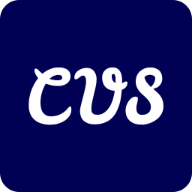
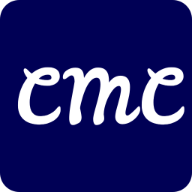
[REFACTOR][DOC] Translate the README to English
Some small adjustments on the descriptions
Add a new logo

Fix the issue #7

Changed region(s): [[0.0938, 0.3438, 0.9688, 0.6562]]

diff --git a/README.md b/README.md
@@ -3,58 +3,113 @@
 Commit Messages Convention (CMC)
 ===
 
-Commit Messages Convention (CMC) is designed to support GIT or SVN projects for better organization of the files that are versioned in the repository, we must insert comments preceded by the actions that were performed on the versioned files. This way the source code versioning is more flexible and cohesive, making it easier to identify what was done.
+Commit Messages Convention (CMC) is designed to help **GIT** or **SVN** projects to a better organization of commits in the repository.
+It defines that commenting must be preceded by the types of actions that were performed on versioned files.
+This makes source code versioning more flexible and cohesive, making it easier to identify what has been done.
+This convention follows [SemVer] (http://semver.org/), describing features, fixes, and modifications that break compatibility in commit messages. 
+
+## Specification
+The keywords "MUST", "MUST NOT", "REQUIRED", "SHALL", "SHALL NOT", "SHOULD", "SHOULD NOT", "RECOMMENDED", "MAY" and "OPTIONAL" in this document are to be interpreted as described in [RFC 2119] (http://tools.ietf.org/html/rfc2119).
 
 ## How to use
-By default, each action should be enclosed in brackets preceded by what was performed clearly and objectively during code versioning.
+By default, each type MUST be capitalized, in brackets, preceding what was done clearly and objectively during code versioning.
 
-## Actions
-
-The options below represent options that can be used at the beginning of each commit.
-
-|Actions    |Description|
-|:-:	      |:-:	    |
-|[ADD]      | Used for when files are added to the project|
-|[REMOVE]   | Used to signal file removal|
-|[MOVE]     | Used when a file is moved from one directory to another.|
-|[UPDATE]   | Used to enhance an existing file|
-|[REFACTOR] | Used for source code refactoring|
-|[PATCH]    | Used to represent routines for interim fixes.|
-|[FIX]      | Used to represent Error / Fault Correction, identified by the manager or team working on the source code|
-|[MERGE]    | Used when file merge is performed|
-|[RENAME]   | Used when a file is renamed.|
-
-## Usage
-
-### Default Message
-```
-[ADD] Definition of xyz Files
-```
-
-### Title and Description
-```
-[UPDATE] Payment using cards
-
-Creation of functionality that allows you to make payments using the XPTO flag credit card.
-```
-
-### Logging messages to modules
-
-If **modules** and **functionality** are used, use the pattern `[action] module / functionality:` preceded by a brief description.
+The commit message MUST be structured as follows:
 
 ```
-[FIX] Module/Feature: Description
+[TYPE required] <description|header required>
+--blank line--
+<optional body>
+--blank line--
+<optional footer>
+```
+##### The message:
+- MUST start with a [TYPE]
+- [TYPE] MUST be uppercase, enclosed in brackets, followed by a space
+- MUST contain a <description> after [TYPE]
+- MAY contain <body> and/or <footer>
+- MUST contain a --blank line-- after <description> if you have <body>
+- MUST contain a --blank line-- after <body> if it has <footer>
 
-Describing what was done in this fix.
+### Types
+The types below represent options that can be used at the beginning of each commit.
+
+| Type      | Description |
+|:-:        | :-: |
+|[FEAT]     | When a new feature was developed |
+|[FIX]      | When a feature/bug has been fixed |
+|[UPDATE]   | When static files have been renamed, removed, moved from one directory to another, added or replaced |
+|[REFACTOR] | When a code change that doesn't fix a bug nor add a feature |
+|[DOCS]     | Documentation changes only |
+
+### Special Types
+Is RECOMMENDED that special types to use in conjunction with previous types, however, they MAY be used anywhere in the message.
+
+| Type                              | Description |
+|:-:                                | :-: |
+|[WIP]                              | When a development is still in progress |
+|[BREAKING] or [BREAKING CHANGE]    | When commit includes a modification that breaks compatibility. MAY be used anywhere in commit (<description>, <body> or <footer>) |
+
+
+#### Exemplos:
+```
+[FEAT][WIP] Introduces a new payment method
+```
+```
+[FIX][BREAKING] Replaces PayPal Gateway with PayPal
 ```
 
-## How NOT to use
+### Description
+For the commit <description> and <body> message, use the "Commit Message Guide" pattern (https://github.com/RomuloOliveira/commit-messages-guide/blob/master/README_en). md) @RomuloOliveira, which basically consists of:
+- **Use imperative**: The message from commit tells you what it does, not what it was **done**.
+- **First letter in upper case**: because this is how you start a sentence in any text.
+- **Try to communicate what commit does without having to look at the commit content.**
 
-It is not good practice to group multiple actions in the same commit. It is recommended that commits be linked to action.
+### Body
+- **Use the body message to explain "why", "for what", "how", and additional details.**
+- **Avoid commits with generic messages or no context.**
+- **Try to limit the number of message columns:** We recommend 50 characters for the <description> and around 72 for the <body>.
+- **Maintain language consistency:** Choose a language and stick to it.
+
+### Footer
+A <footer> of one or more lines MAY be provided after a --blank line-- after <body>.
+The <footer> MUST contain additional information about commit, eg issue/task number, pull-requests, proofreaders, modifications that break compatibility, with one additional information per line.
+
+## Examples
+```
+[FIX] Fix the method call "getProducts"
+
+The expected return of the "getProducts" method was an array, but returned an object, which caused an error in production.
+
+Fix issue #92
+```
 
 ```
-[UPDATE/FIX] Description of the change and correction.
+[FEAT][WIP] Creates the PayPalGateway Class
+
+Creates the basic framework for PayPal integration, as well as the Gateway interface for future use.
+```
+
+```
+[REFACTOR] Refactors the PagSeguro class
+
+Rewrote of the PagSeguroGateway class to fit the Gateway interface standard.
+[BREAKING CHANGE] Because the PagSeguroGateway class has been refactored, all methods have also been modified.
+
+Depends on commit sd5f54s
+```
+
+```
+[UPDATE] Add CSS files and images
+
+Add missing files to assets/ directory
 ```
 
 ## Languages
-- [PT-BR](./Readme-Pt-BR.md)
+- [PT-BR](./README-pt_BR.md)
+
+## References
+- [How to Write a Git Commit Message](https://chris.beams.io/posts/git-commit/)
+- [Conventional Commits](https://www.conventionalcommits.org/pt-br/)
+- [Commit Messages Guide](https://github.com/RomuloOliveira/commit-messages-guide)
+- [Angular Commit Message Guidelines](https://github.com/angular/angular/blob/22b96b9/CONTRIBUTING.md#-commit-message-guidelines)

diff --git a/README-pt_BR.md b/README-pt_BR.md
@@ -44,12 +44,12 @@ Os tipos abaixo representam opções que podem ser usadas no início de cada _co
 
 ### Tipos especiais
 
-Os tipos especiais devem ser utilizados em conjunto com os tipos anteriores
+E RECOMENDADO que os tipos especiais sejam utilizados em conjunto com os tipos anteriores, porem, eles PODEM ser usados em qualquer parte da mensagem.
 
 | Tipo                              | Descrição |
 |:-:                                | :-: |
 |[WIP]                              | Quando um desenvolvimento ainda esta em progresso |
-|[BREAKING] ou [BREAKING CHANGE]    | Quando o _commit_ inclui uma modificação que quebra a compatibilidade. Pode ser usado em qualquer parte do _commit_ (descrição, corpo ou rodapé) |
+|[BREAKING] ou [BREAKING CHANGE]    | Quando o _commit_ inclui uma modificação que quebra a compatibilidade. PODE ser usado em qualquer parte do _commit_ (<descrição>, <corpo> ou <rodapé>) |
 
 #### Exemplos:
 ```
@@ -61,7 +61,7 @@ Os tipos especiais devem ser utilizados em conjunto com os tipos anteriores
 
 ### Descrição
 
-Para a mensagem de descrição e do corpo do _commit_, faz-se o uso do padrao ["Commit Message Guide"](https://github.com/RomuloOliveira/commit-messages-guide/blob/master/README_pt-BR.md) do @RomuloOliveira, que basicamente consiste em:
+Para a mensagem de <descrição> e do <corpo> do _commit_, faz-se o uso do padrao ["Commit Message Guide"](https://github.com/RomuloOliveira/commit-messages-guide/blob/master/README_pt-BR.md) do @RomuloOliveira, que basicamente consiste em:
 - **Usar o imperativo**: A mensagem de _commit_ diz o que ele faz, não o que foi **feito**.
 - **Primeira letra em maiúsculo**: porque é assim que se começa uma frase em qualquer texto.
 - **Tente comunicar o que o _commit_ faz sem que seja necessário olhar o conteúdo do _commit_.**
@@ -70,12 +70,12 @@ Para a mensagem de descrição e do corpo do _commit_, faz-se o uso do padrao ["
 
 - **Use o corpo da mensagem para explicar "porquê", "para quê", "como" e detalhes adicionais.**
 - **Evite _commits_ com mensagens genéricas ou sem contexto algum.**
-- **Tente limitar o nº de colunas das mensagens:** Recomenda-se 50 caracteres para o título e por volta de 72 para o corpo.
+- **Tente limitar o nº de colunas das mensagens:** Recomenda-se 50 caracteres para a <descrição> e por volta de 72 para o <corpo>.
 - **Mantenha consistência de idioma:** Escolha um idioma e mantenha-se nele.
 
 ### Rodapé
 
-Um rodapé de uma ou mais linhas PODE ser fornecido depois de uma --linha em branco-- após o <corpo>.
+Um <rodapé> de uma ou mais linhas PODE ser fornecido depois de uma --linha em branco-- após o <corpo>.
 O <rodapé> DEVE conter informações adicionais sobre o _commit_, por exemplo, numero da issue/task, pull-requests, revisores, modificações que quebram a compatibilidade, com uma informação adicional por linha.
 
 ## Exemplos
